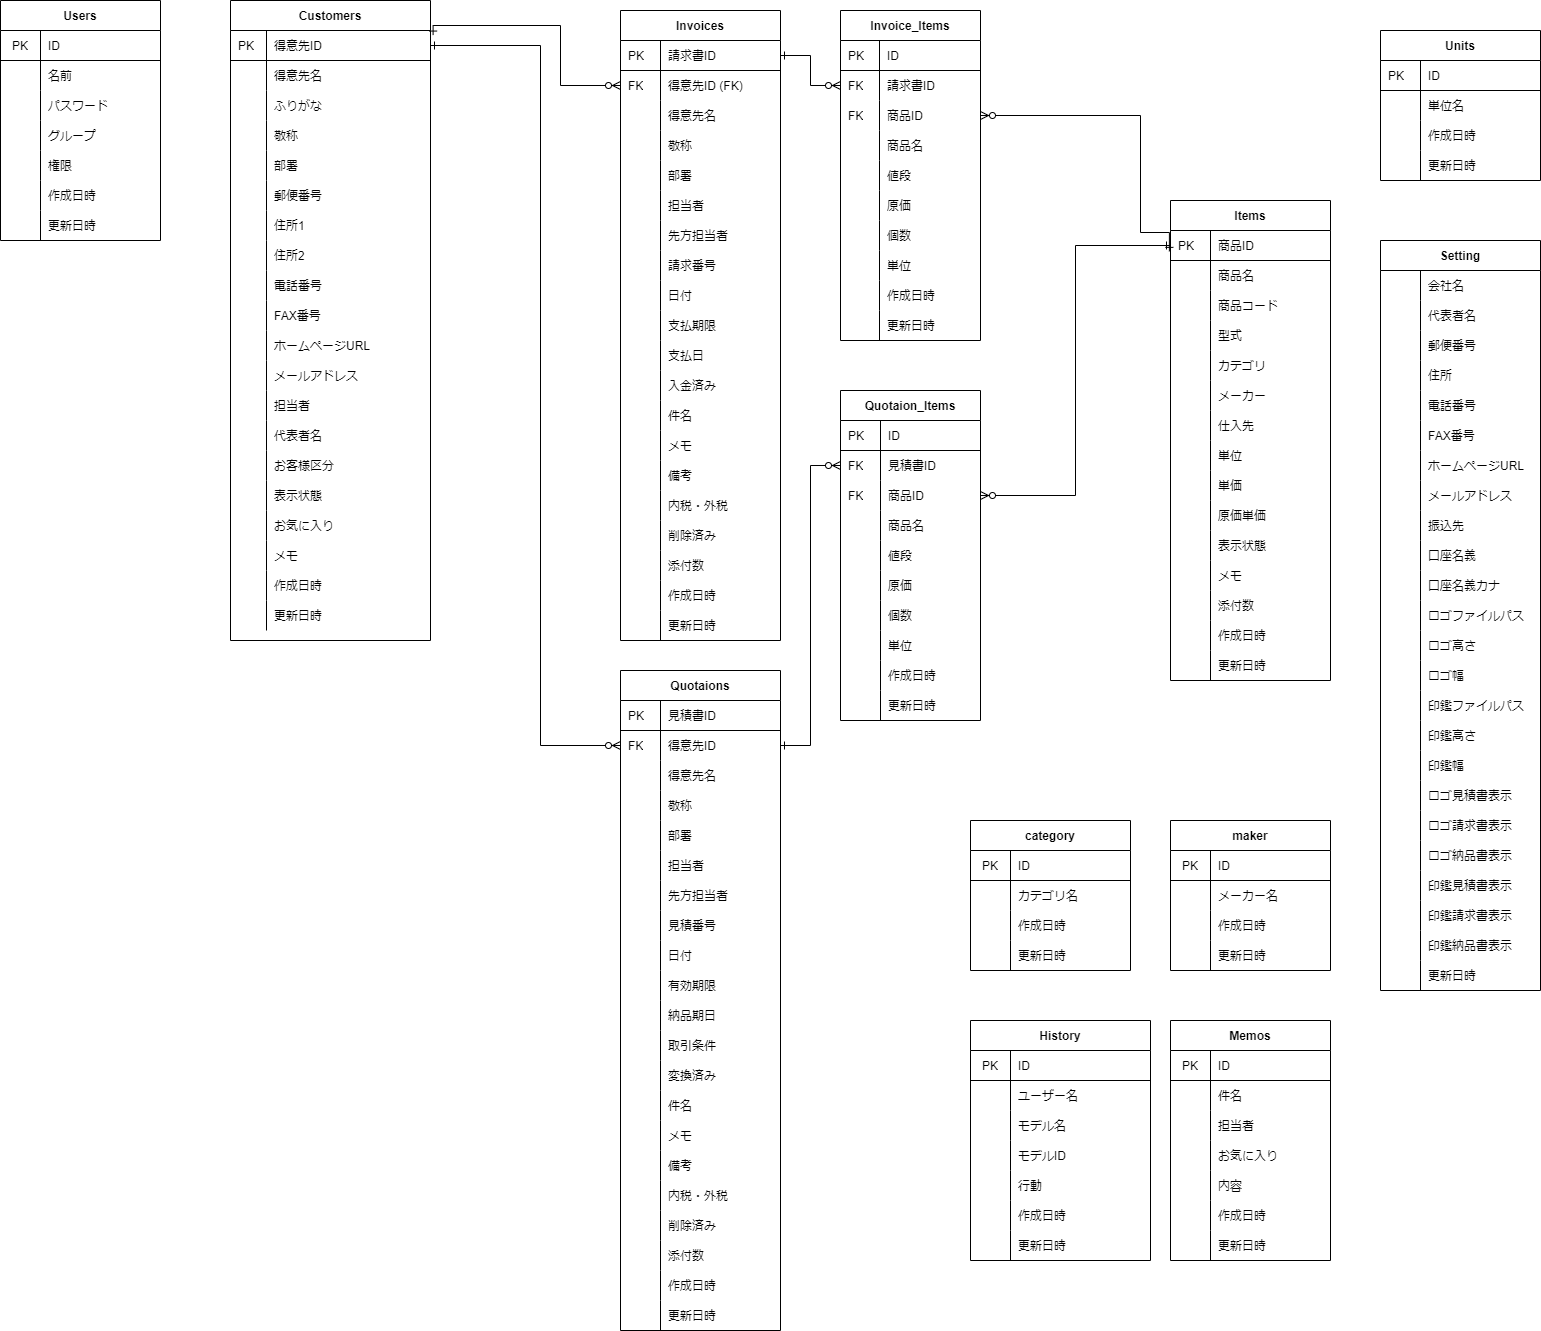
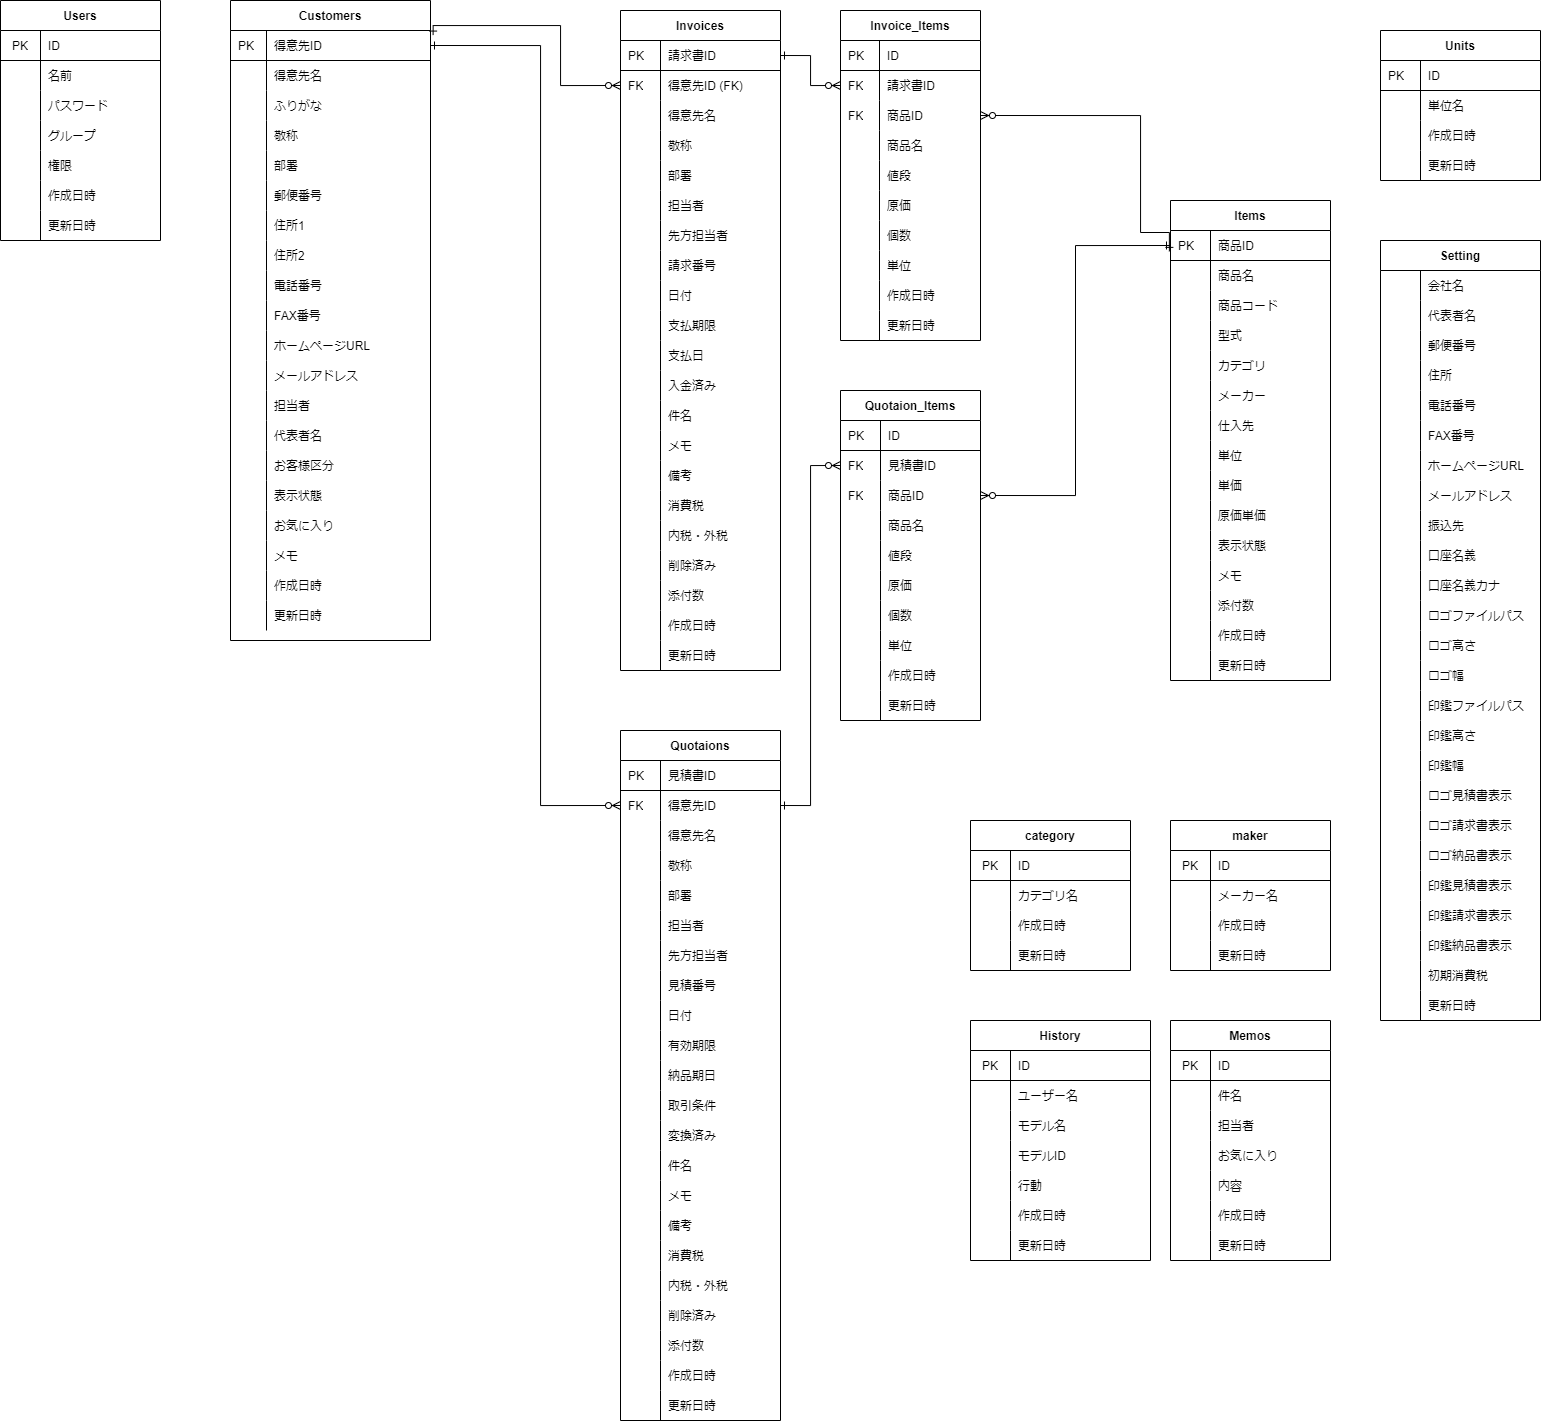
Invoices・Quotationsに消費税カラム追加

diff --git a/app/templates/quotation_dust.html b/app/templates/quotation_dust.html
@@ -208,9 +208,9 @@
                             </b-row>
                             <b-row>
                                 <b-col sm>
-                                    <b-form-group label-cols="4" label-cols-lg="2" label-size="sm" label="件名"
-                                        label-for="title" label-align="right">
-                                        <p class="text-left pl-2" id="title">{{quotation.title}}</p>
+                                    <b-form-group label-cols="4" label-cols-lg="2" label-size="sm" label="消費税率"
+                                        label-for="tax" label-align="right">
+                                        <p class="text-left pl-2" id="tax">{{quotation.tax}}</p>
                                     </b-form-group>
                                 </b-col>
                                 <b-col sm>
@@ -222,6 +222,10 @@
                             </b-row>
                             <b-row>
                                 <b-col sm>
+                                    <b-form-group label-cols="4" label-cols-lg="2" label-size="sm" label="件名"
+                                        label-for="title" label-align="right">
+                                        <p class="text-left pl-2" id="title">{{quotation.title}}</p>
+                                    </b-form-group>
                                 </b-col>
                                 <b-col sm>
                                     <b-form-group label-cols="4" label-cols-lg="2" label-size="sm" label="削除日時"

diff --git a/app/templates/invoice_dust.html b/app/templates/invoice_dust.html
@@ -210,9 +210,9 @@
                             </b-row>
                             <b-row>
                                 <b-col sm>
-                                    <b-form-group label-cols="4" label-cols-lg="2" label-size="sm" label="件名"
-                                        label-for="title" label-align="right">
-                                        <p class="text-left pl-2" id="title">{{invoice.title}}</p>
+                                    <b-form-group label-cols="4" label-cols-lg="2" label-size="sm" label="消費税率"
+                                        label-for="tax" label-align="right">
+                                        <p class="text-left pl-2" id="tax">{{invoice.tax}}</p>
                                     </b-form-group>
                                 </b-col>
                                 <b-col sm>
@@ -224,6 +224,10 @@
                             </b-row>
                             <b-row>
                                 <b-col sm>
+                                    <b-form-group label-cols="4" label-cols-lg="2" label-size="sm" label="件名"
+                                        label-for="title" label-align="right">
+                                        <p class="text-left pl-2" id="title">{{invoice.title}}</p>
+                                    </b-form-group>
                                 </b-col>
                                 <b-col sm>
                                     <b-form-group label-cols="4" label-cols-lg="2" label-size="sm" label="削除日時"

diff --git a/app/templates/invoice.html b/app/templates/invoice.html
@@ -307,6 +307,11 @@
                                             size="sm" autocomplete="off">
                                         </b-form-input>
                                     </b-form-group>
+                                    <b-form-group label-cols="2" label-cols-lg="2" label-size="sm" label="消費税率"
+                                        label-for="tax" label-align="right">
+                                        <b-form-input v-model="invoice.tax" id="tax" size="sm" autocomplete="off">
+                                        </b-form-input>
+                                    </b-form-group>
                                 </b-col>
                                 <b-col xl>
                                     <b-form-group label-cols="2" label-cols-lg="2" label-size="sm" label="メモ"

diff --git a/app/templates/quotation.html b/app/templates/quotation.html
@@ -312,6 +312,11 @@
                                             size="sm">
                                         </b-form-input>
                                     </b-form-group>
+                                    <b-form-group label-cols="2" label-cols-xl="2" label-size="sm" label="消費税率"
+                                        label-for="tax" label-align="right">
+                                        <b-form-input v-model="quotation.tax" id="tax" size="sm">
+                                        </b-form-input>
+                                    </b-form-group>
                                 </b-col>
                                 <b-col xl>
                                     <b-row>

diff --git a/app/seeder.py b/app/seeder.py
@@ -73,11 +73,11 @@ def seeder():
     print('----Invoices-----')
     invoices = [
         Invoice(customerId=1, customerName='○○株式会社', honorificTitle='御中', department='部署1', manager='田中太郎', otherPartyManager='先方太郎', applyDate=date(2022, 1, 1), deadLine=date(2022, 1, 1),
-                paymentDate=date(2022, 1, 1), isPaid=False, title='○○株式会社への請求書', memo='これは請求書のメモです', remarks='これは請求書の備考です', isTaxExp=True, numberOfAttachments=0),
+                paymentDate=date(2022, 1, 1), isPaid=False, title='○○株式会社への請求書', memo='これは請求書のメモです', remarks='これは請求書の備考です', tax=10, isTaxExp=True, numberOfAttachments=0),
         Invoice(customerId=2, customerName="○○有限会社", honorificTitle='御中', department='部署2', manager='田中次郎', otherPartyManager='先方次郎', applyDate=date(2022, 1, 1), deadLine=date(2022, 1, 1),
-                paymentDate=date(2022, 1, 1), isPaid=False, title='○○有限会社への請求書', memo='これは請求書のメモです', remarks='これは請求書の備考です', isTaxExp=True, numberOfAttachments=0),
+                paymentDate=date(2022, 1, 1), isPaid=False, title='○○有限会社への請求書', memo='これは請求書のメモです', remarks='これは請求書の備考です', tax=10, isTaxExp=True, numberOfAttachments=0),
         Invoice(customerId=3, customerName="○○商事", honorificTitle='御中', department='部署3', manager='田中三郎', otherPartyManager='先方三郎', applyDate=date(2022, 1, 1), deadLine=date(2022, 1, 1),
-                paymentDate=date(2022, 1, 1), isPaid=False, title='○○商事への請求書', memo='これは請求書のメモです', remarks='これは請求書の備考です', isTaxExp=True, numberOfAttachments=0),
+                paymentDate=date(2022, 1, 1), isPaid=False, title='○○商事への請求書', memo='これは請求書のメモです', remarks='これは請求書の備考です', tax=10, isTaxExp=True, numberOfAttachments=0),
     ]
     db.session.add_all(invoices)
     db.session.commit()
@@ -111,11 +111,11 @@ def seeder():
     print('----Quotations----')
     quotations = [
         Quotation(customerId=1, customerName='○○株式会社', honorificTitle='御中', department='部署1', manager='田中太郎', otherPartyManager='先方太郎', applyDate=date(2022, 1, 1), expiry='2週間以内',
-                  dayOfDelivery='受注後1週間以内', termOfSale='御社決済条件にて', isConvert=False, title='○○株式会社への見積書', memo='これは見積書のメモです', remarks='これは見積書の備考です', isTaxExp=True, numberOfAttachments=0),
+                  dayOfDelivery='受注後1週間以内', termOfSale='御社決済条件にて', isConvert=False, title='○○株式会社への見積書', memo='これは見積書のメモです', remarks='これは見積書の備考です', tax=10, isTaxExp=True, numberOfAttachments=0),
         Quotation(customerId=2, customerName="○○有限会社", honorificTitle='御中', department='部署2', manager='田中次郎', otherPartyManager='先方次郎', applyDate=date(2022, 1, 1), expiry='1ヶ月以内',
-                  dayOfDelivery='受注後2週間以内', termOfSale='代金引換', isConvert=False, title='○○有限会社への見積書', memo='これは見積書のメモです', remarks='これは見積書の備考です', isTaxExp=True, numberOfAttachments=0),
+                  dayOfDelivery='受注後2週間以内', termOfSale='代金引換', isConvert=False, title='○○有限会社への見積書', memo='これは見積書のメモです', remarks='これは見積書の備考です', tax=10, isTaxExp=True, numberOfAttachments=0),
         Quotation(customerId=3, customerName="○○商事", honorificTitle='御中', department='部署3', manager='田中三郎', otherPartyManager='先方三郎', applyDate=date(2022, 1, 1), expiry='2ヶ月以内',
-                  dayOfDelivery='受注後1ヶ月以内', termOfSale='応相談', isConvert=False, title='○○商事への見積書', memo='これは見積書のメモです', remarks='これは見積書の備考です', isTaxExp=True, numberOfAttachments=0),
+                  dayOfDelivery='受注後1ヶ月以内', termOfSale='応相談', isConvert=False, title='○○商事への見積書', memo='これは見積書のメモです', remarks='これは見積書の備考です', tax=10, isTaxExp=True, numberOfAttachments=0),
     ]
     db.session.add_all(quotations)
     db.session.commit()

diff --git a/app/api.py b/app/api.py
@@ -535,6 +535,7 @@ def invoice_create():
         title=data.get('title'),
         memo=data.get('memo'),
         remarks=data.get('remarks'),
+        tax=data.get('tax'),
         isTaxExp=data.get('isTaxExp'),
         numberOfAttachments=data.get('numberOfAttachments'),
         invoice_items=newInvoiceItems,
@@ -579,8 +580,9 @@ def invoice_update(id):
     invoice.title = data.get('title')
     invoice.memo = data.get('memo')
     invoice.remarks = data.get('remarks')
-    invoice.numberOfAttachments = data.get('numberOfAttachments')
+    invoice.tax = data.get('tax')
     invoice.isTaxExp = data.get('isTaxExp')
+    invoice.numberOfAttachments = data.get('numberOfAttachments')
 
     if data.get('invoice_items'):
         update_list = []
@@ -869,6 +871,7 @@ def quotation_create():
         title=data.get('title'),
         memo=data.get('memo'),
         remarks=data.get('remarks'),
+        tax=data.get('tax'),
         isTaxExp=data.get('isTaxExp'),
         numberOfAttachments=data.get('numberOfAttachments'),
         quotation_items=newQuotationItems,
@@ -905,6 +908,7 @@ def quotation_update(id):
     quotation.title = data.get('title')
     quotation.memo = data.get('memo')
     quotation.remarks = data.get('remarks')
+    quotation.tax = data.get('tax')
     quotation.isTaxExp = data.get('isTaxExp')
     quotation.numberOfAttachments = data.get('numberOfAttachments')
 

diff --git a/app/models.py b/app/models.py
@@ -116,6 +116,8 @@ class Invoice(db.Model):
     title = db.Column(db.String)
     memo = db.Column(db.String)
     remarks = db.Column(db.String)
+    tax = db.Column(db.Integer, nullable=False, default=10,
+                    server_default=db.text('10'))
     isTaxExp = db.Column(db.Boolean, nullable=False, default=True)
     isDelete = db.Column(db.Boolean, nullable=False, default=False)
     numberOfAttachments = db.Column(
@@ -185,6 +187,8 @@ class Quotation(db.Model):
     title = db.Column(db.String)
     memo = db.Column(db.String)
     remarks = db.Column(db.String)
+    tax = db.Column(db.Integer, nullable=False, default=10,
+                    server_default=db.text('10'))
     isTaxExp = db.Column(db.Boolean, nullable=False, default=True)
     isDelete = db.Column(db.Boolean, nullable=False, default=False)
     numberOfAttachments = db.Column(

diff --git a/models.md b/models.md
@@ -80,6 +80,7 @@
 | title       | 件名           | text     |                                                           | 
 | memo        | メモ           | text     |  アプリ利用者に見えるもの                                 | 
 | remarks     | 備考           | text     |  印刷時に表示されるもの                                   |
+| tax         | 消費税         | integer   |                                                         |
 | isTaxExp    | 内税・外税     | boolean   |  内税・外税のチェック                                      | 
 | isDelete    | 削除済み       | boolean   |  請求書は削除するのではなく、これにチェックする               | 
 | numberOfAttachments | 添付数 | integer | 添付されたファイル数                                          | 
@@ -125,6 +126,7 @@
 | title       | 件名           | text     |                                                          | 
 | memo        | メモ           | text     | アプリ利用者に見えるもの                                 | 
 | remarks     | 備考           | text     | 印刷時に表示されるもの                                   | 
+| tax         | 消費税         | integer  |                                                         |
 | isTaxExp    | 内税・外税      | boolean  | 内税・外税のチェック                                     | 
 | isDelete    | 削除済み       | boolean  |  見積書は削除するのではなく、これにチェックする              | 
 | numberOfAttachments | 添付数 | integer | 添付されたファイル数                                       | 
